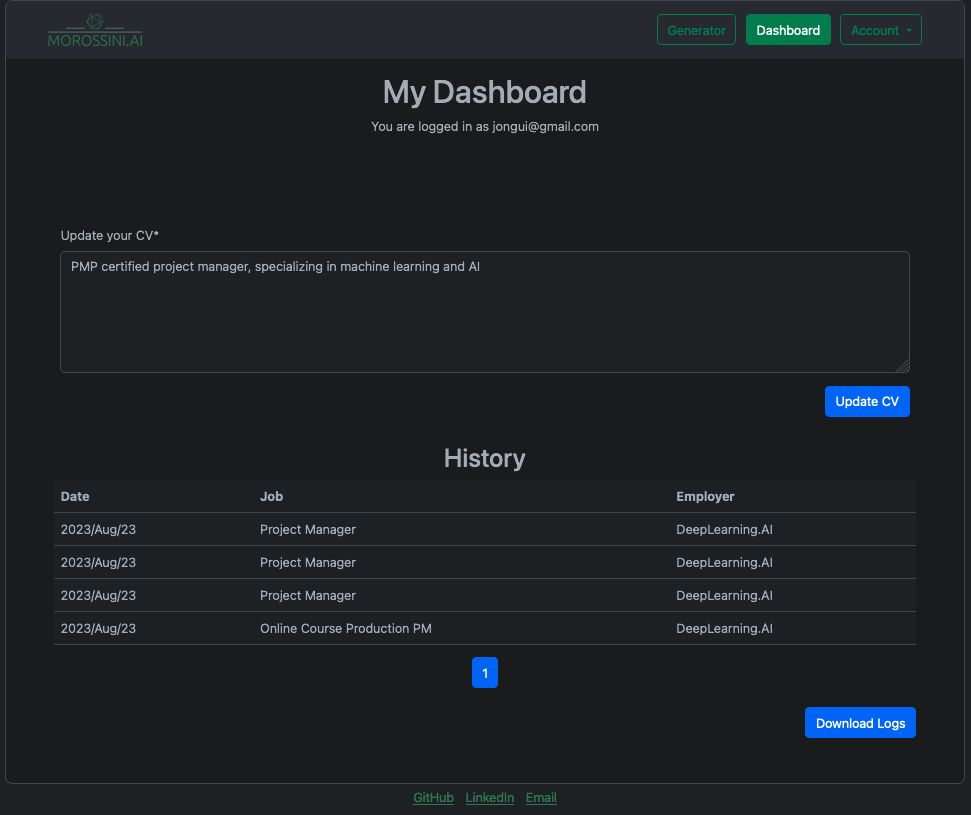
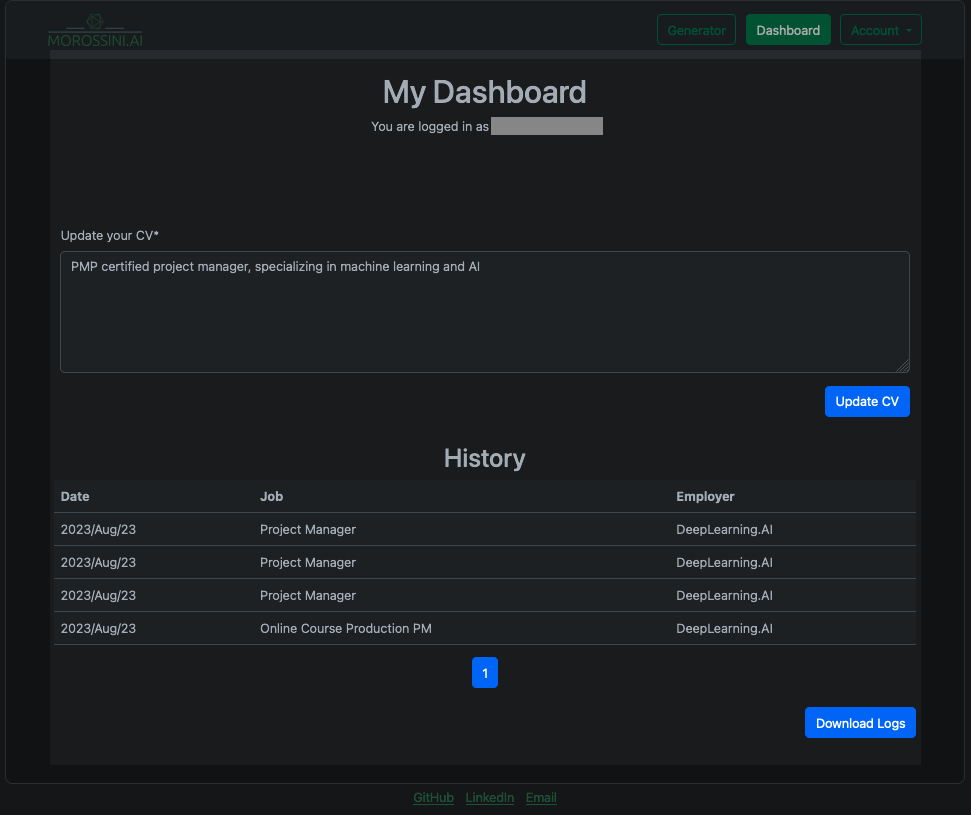
Updated README

diff --git a/templates/base_2.html b/templates/base_2.html
@@ -6,10 +6,10 @@
               content="width=device-width, user-scalable=no, initial-scale=1.0, maximum-scale=1.0, minimum-scale=1.0">
         <meta http-equiv="X-UA-Compatible" content="ie=edge">
         <link href="https://cdn.jsdelivr.net/npm/bootstrap@5.3.0/dist/css/bootstrap.min.css" rel="stylesheet" integrity="sha384-9ndCyUaIbzAi2FUVXJi0CjmCapSmO7SnpJef0486qhLnuZ2cdeRhO02iuK6FUUVM" crossorigin="anonymous">
-        <link href="static/css/styles.css" rel="stylesheet">
+        <link href="/static/css/styles.css" rel="stylesheet">
         <title>{% block title %}
         {% endblock title %}</title>
-        <link rel="icon" type="image/x-icon" href="static/img/favicon.png">
+        <link rel="icon" type="image/x-icon" href="/static/img/favicon.png">
     </head>
 
     <body class="bg-dark">
@@ -33,7 +33,7 @@
                 <div class="container-fluid p-1 d-flex">
                     <div class="justify-content-start ps-5 my-1 flex-grow-1">
                         <a href="{{ url_for('generator')}}">
-                            <img src="{{ url_for('static', filename='img/logo.png') }}" height="40" style="vertical-align:top">
+                            <img src="{{ url_for('static', filename='img/logo.png') }}" height="40" style="vertical-align:top" alt="">
                         </a>
                     </div>
                     <button class="navbar-toggler" type="button" data-bs-toggle="offcanvas" data-bs-target="#navbarNav" aria-controls="navbarNav" aria-expanded="false" aria-label="Toggle navigation">
@@ -50,9 +50,11 @@
                                 <a class="btn btn-outline-success me-1 w-100 {% if request.path == url_for('dashboard') %}active{% endif %}" type="button" href="{{ url_for('dashboard') }}">Dashboard</a>
                                 <div class="btn-group w-100">
                                     <button class="btn btn-outline-success dropdown-toggle w-100" type="button" id="dropdownMenuButton" data-bs-toggle="dropdown" aria-expanded="false">
-                                        My Account
+                                        Account
                                     </button>
                                     <ul class="dropdown-menu dropdown-menu-end" aria-labelledby="dropdownMenuButton">
+                                        <li><a class="dropdown-item" href="{{ url_for('signup') }}">Sign Up</a></li>
+                                        <li><a class="dropdown-item" href="{{ url_for('login') }}">Login</a></li>
                                         <li><a class="dropdown-item" href="{{ url_for('logout') }}">Logout</a></li>
                                         <li><a class="dropdown-item" href="{{ url_for('reset_request') }}">Change Password</a></li>
                                         <li>

diff --git a/README.md b/README.md
@@ -11,7 +11,7 @@ For a version in which both authentication and a user OpenAI API key are require
 ### Table of Contents
 #### 1. Contact
 #### 2. Features
-#### 3. References
+#### 3. Screenshots
 #### 4. License
 
 ---
@@ -41,6 +41,23 @@ The Clever Letter Generator is a Flask-based web application that uses AI to gen
 
 ### 3. Screenshots
 
+##### Sign Up
+![Sign Up Page](static/img/screenshot_signup.png)
+
+##### Login
+![Sign Up Page](static/img/screenshot_login.png)
+
+##### Guest Access
+![Unauthenticated Access](static/img/screenshot_generator_unauthenticated.png)
+
+#### Generated Cover Letter
+![Generated Cover Letter](static/img/screenshot_generated_cover_letter.png)
+
+##### Unauthenticated Dashboard
+![Unauthenticated Dashboard](static/img/screenshot_dashboard_unauthenticated.png)
+
+##### Authenticated Dashboard
+![Authenticated Dashboard](static/img/screenshot_authenticated_dashboard.png)
 
 ---
 
